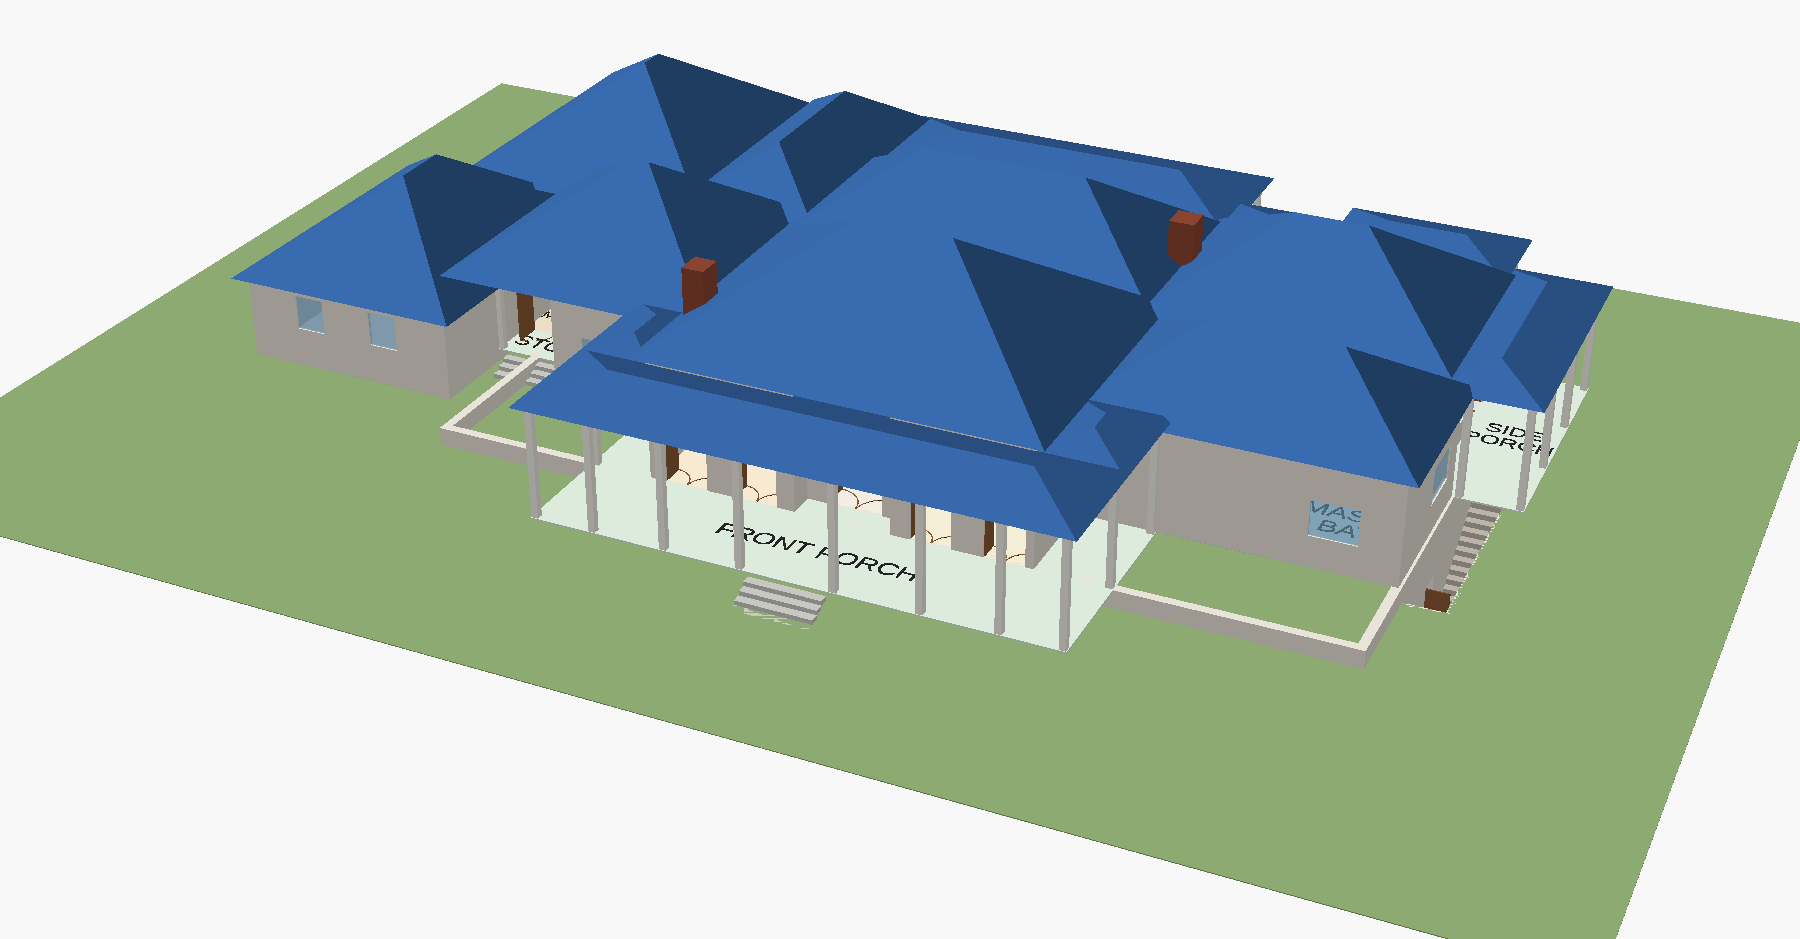
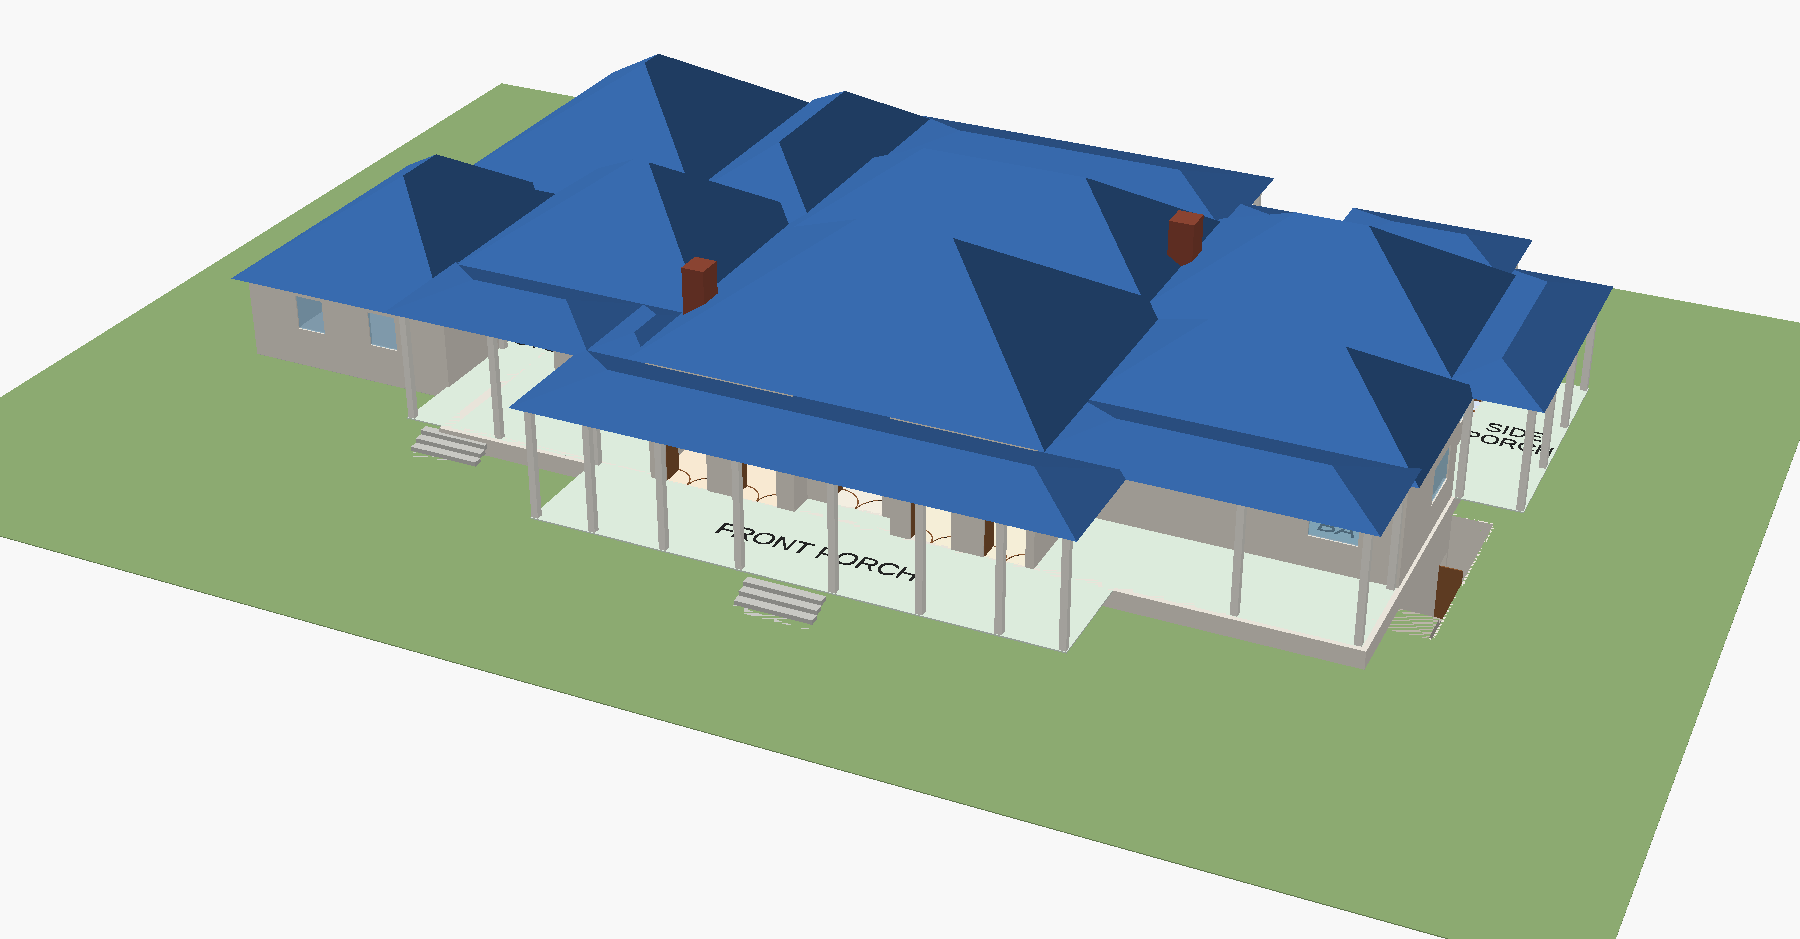
Settle the research's layout decisions: stair, porches, exit stair, Bath 2
- Basement stair option A is final: drop the stair switch; the bar and
  the garage-corner stair now ride on changes = false.
- Front porch wraps both front corners (by Bedroom 4 / the stoop and by
  the master bath) so the whole basement sits under the house or a porch.
- Exit stair flipped to climb south beside the master bath, clear of the
  side porch; exit door moved north to its foot.
- Bath 2 and its WIC 1 ft wider, taken from Bedroom 2.
- REVIEW.md round-4 table, README, checker variants, renders.

Claude-Session: https://claude.ai/code/session_018d8BEoLUnZJHvcnz3sBah6

Changed region(s): [[0.5911, 0.4324, 0.84, 0.6794], [0.2178, 0.278, 0.3733, 0.4941]]

diff --git a/tools/check_layout.py b/tools/check_layout.py
@@ -9,7 +9,7 @@ tables it echoes, and checks that:
     (basement) without going outside;
   * no door overlaps a window, and every window has walls on one side only;
   * rooms don't overlap and leave no thin voids between them.
-Each level is checked in every stair / changes variant.
+The main floor is checked with the changes on and off.
 
     python3 tools/check_layout.py             # both levels
     python3 tools/check_layout.py basement.scad
@@ -23,8 +23,8 @@ from pathlib import Path
 
 ROOT = Path(__file__).resolve().parent.parent
 VARIANTS = {
-    "main_floor.scad": [[], ["-D", "changes=false"], ["-D", 'stair="as_drawn"']],
-    "basement.scad": [[], ["-D", 'stair="as_drawn"']],
+    "main_floor.scad": [[], ["-D", "changes=false"]],
+    "basement.scad": [[]],
 }
 # rooms deliberately drawn inside another room (own floor level or no plate)
 NESTED_OK = {("GARAGE", "STORAGE"), ("GARAGE", "STAIR DN"), ("REC ROOM / LIBRARY", "STAIR UP"), ("", "STAIR UP")}

diff --git a/REVIEW.md b/REVIEW.md
@@ -19,9 +19,8 @@ basement sketch, the OpenSCAD models as of `c28a5f8`, and Kayla's notes.
 - **All of Kayla's notes are in the model.** They are switchable, so you can
   compare before and after (`changes = true / false`). New doors are drawn
   green.
-- **The stairs in the two drawings can't meet.** The model proposes putting
-  the basement stair where the bar is. **That's a decision for you**; see
-  below.
+- **The stairs in the two drawings can't meet.** Decided: the basement
+  stair goes where the bar is (option A, section 2).
 - **The code is now table-driven.** One row per room, door and window; the
   combined model reuses the level files instead of copying them; and a
   checker catches layout bugs like the ones above.
@@ -62,12 +61,20 @@ basement sketch, the OpenSCAD models as of `c28a5f8`, and Kayla's notes.
 | *No basement bathroom* (decision A3, a before-the-pour rough-in) | A **pool bath** of about 5 × 12 ft, taken from the north end of the pool-equipment strip. Swimmers reach it straight from the pool room, and it has a second door from the vestibule on the rec-room side, so the theater and library can use it too. Inside: a shower at the south end, a change bench, a sink and a WC. The pool-equipment room is now 5 × 19 ft (about 95 sq ft) with its door off the pool room. |
 | *ICF: plan on an 8 in core* (decision C12) | The foundation wall is now drawn **13¼ in** thick (8 in core plus two 2⅝ in EPS faces) instead of 12 in, centred on the same 100 × 60 outline (`icf_wall_t()` in `house_lib.scad`). |
 
-The rest of the research's layout list is still open and needs your call:
-the stair (section 2 below), a second interior stair, fitting the basement
-outline to the house, the exit stair vs. the side porch, and the theater's
-sound isolation.
+### Round 4: the research's open layout decisions (Oct 29)
 
-## 2. Decision needed: where the basement stair goes
+| Decision | Made, and in the model |
+|---|---|
+| Basement stair (#1) | **Option A, final**: the U-stair in the former bar. The `stair` switch is gone; `changes = false` still shows the bar and the architect's garage-corner stair. |
+| Second interior stair (#2) | **No.** The pool bath removes the reason for one, and the exit stair is the second way out. |
+| Basement outline (#4) | **Keep the 100 × 60 rectangle** and wrap the front porch round both front corners: in front of Bedroom 4 / the stoop (over the pool room) and in front of the master bath (over the music room). The basement now sits entirely under the house (~4,600 sq ft) or a porch (~1,400 sq ft), so the out-of-house parts are one detail: a structural slab under the porch floor. Confirm that detail with the builder. |
+| Exit stair vs. side porch (#6) | **Moved.** The exit stair now climbs south along the master bath's east wall from a door further north (landing at the door, 18 risers, landing at grade), entirely south of the side porch. |
+| Bath 2 (tightest bath) | **1 ft wider** (about 6 × 10 ft), taken from Bedroom 2, which is now about 14 × 15 ft. Its WIC widens too. |
+
+Still open: the theater's sound isolation (a framing detail, not a layout
+change).
+
+## 2. The basement stair (decided: A)
 
 The two drawings put the stair in places that can't connect:
 
@@ -83,7 +90,7 @@ sketch has the theater and pool. (The earlier "Kayla's changes" drawing put
 the stair across the back of the family room. That spot only lined up on the
 old, undersized model.)
 
-- **A: stair where the bar is (the model's default, `stair = "proposed"`).**
+- **A: stair where the bar is (chosen; in the model).**
   A U-shaped stair in the bar's space, just off the front hall and family
   room. It lands in the middle of the basement rec room. The bar / coffee /
   sink counter you sketched for the basement takes over from the main-floor
@@ -94,8 +101,7 @@ old, undersized model.)
   plan also shows only 7 treads there; a 13 ft drop needs about 20, so it
   needs more room than drawn. It may even be an attic stair, which is worth
   asking the architect.
-- **C: keep the sketch's stair beside the utilities** (`stair = "as_drawn"`
-  shows it). It comes up through the office and master suite, so the office
+- **C: keep the sketch's stair beside the utilities.** It comes up through the office and master suite, so the office
   would have to move.
 
 **Recommendation: A.** It's the only option that doesn't cost a main room on
@@ -192,13 +198,12 @@ Assumptions (please check):
 ## 5. Worth raising with the architect / builder
 
 - **The basement is bigger than the house in places.** The sketch's 100' × 60'
-  rectangle doesn't follow the house's outline, so about 20% of it lies
-  outside the walls: in front of Bedroom 4 (pool room), in front of the master
-  closets (music room), and under the back porches (utilities, storage). In
-  the 3D view, the pale outline on the lawn shows where. Either fit the
-  basement to the house or plan structural slabs over those parts.
-- **Exit stair vs. side porch.** As sketched, the exit stair runs under the
-  side porch, so the porch floor needs an opening there or the stair moves.
+  rectangle doesn't follow the house's outline. With the porches wrapped round
+  the front corners (round 4), every part outside the walls is under a porch,
+  so those porch floors are structural slabs over the basement. Confirm that
+  with the builder.
+- **Exit stair.** It now climbs south beside the master bath, clear of the
+  side porch (round 4). Its areaway needs a drain and a guard at grade.
 - **Pool in the basement.** It sits under Bedroom 4, Bath 4 and the mud room.
   A pool room needs its own dehumidification and vapour control, and the
   structure has to be designed for it.

diff --git a/README.md b/README.md
@@ -20,10 +20,9 @@ Set them in the OpenSCAD Customizer or with `-D name=value`:
 
 - `changes`: `true` shows the proposed changes from Kayla's review (new
   doors drawn green, kitchen work zone, central bedroom hall, master
-  laundry, kitchen-to-dining hall, bigger shower);
+  laundry, kitchen-to-dining hall, bigger shower, basement stair in the old
+  bar, porches round the front corners, wider Bath 2);
   `false` shows the plan as drawn.
-- `stair`: `"proposed"` puts the basement stair in the former bar so both
-  floors meet; `"as_drawn"` keeps each drawing's stair (they don't line up).
 - `show_roof`, `roof_opacity`, `roof_color`: the roof (blue by default).
 - `mode` (combined only): `assembled`, `exploded`, `basement_only` or
   `main_only`; `show_ground` draws the lawn at grade in the assembled view.
